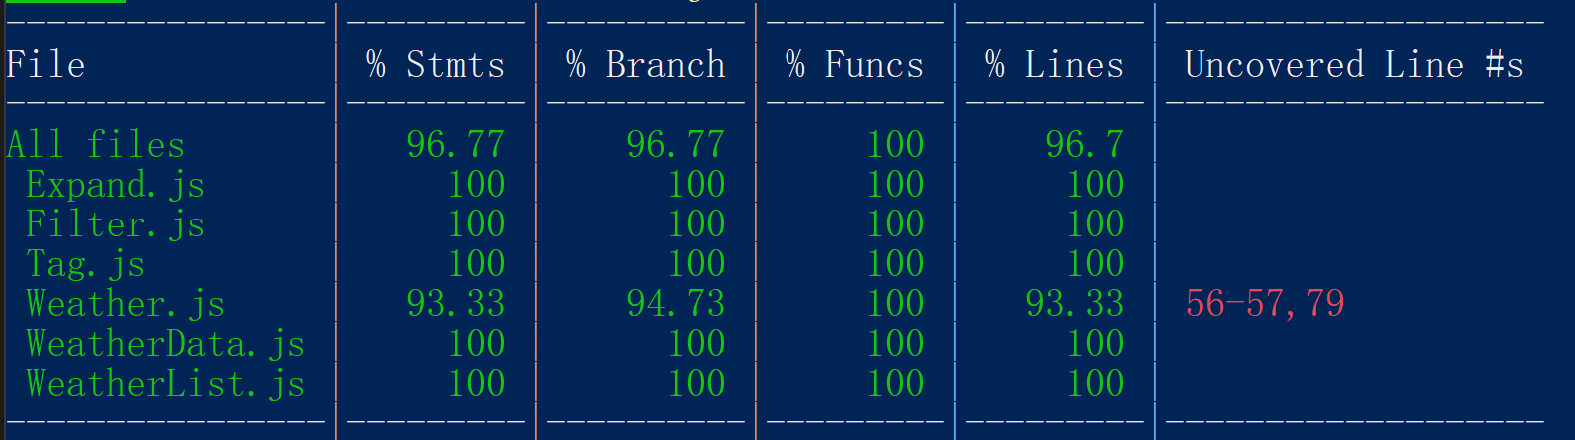
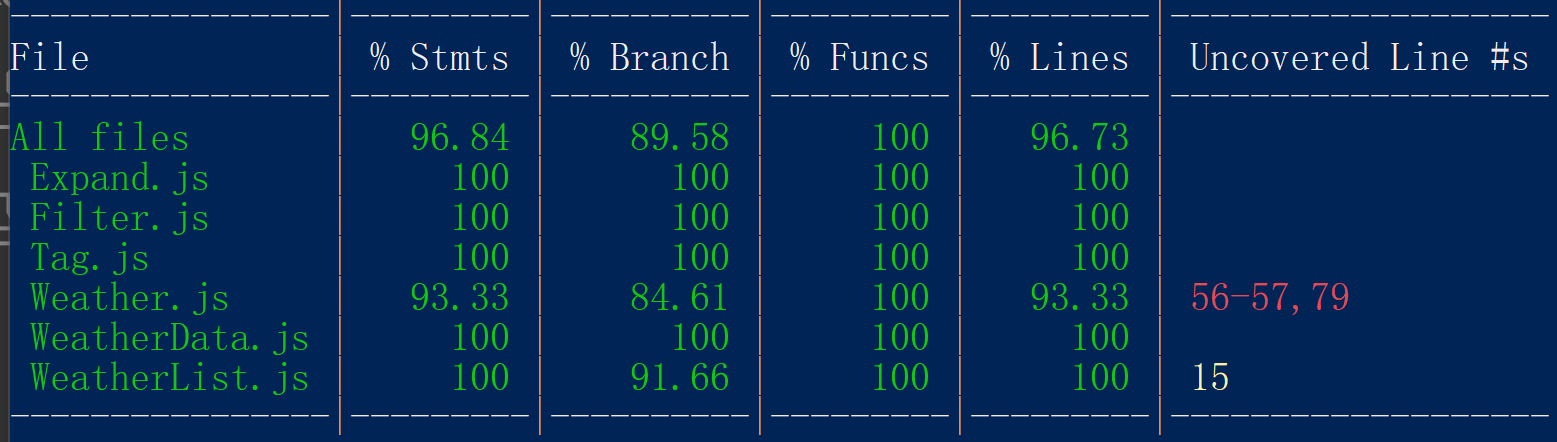
some update
- change WeatherList from class component to function component
- add cases of data is undefined
- update corresponding test cases
- update new branch coverage report

diff --git a/src/components/WeatherList.js b/src/components/WeatherList.js
@@ -1,71 +1,50 @@
-import React from 'react';
+import React, {useState} from 'react';
 import '../css/WeatherList.css';
 import Weather from './Weather';
 import Filter from './Filter';
-import weatherList from "../data/weather.json";
 
-const storage = window.localStorage;
-
-class WeatherList extends React.Component{
-    constructor(props){
-        super(props);
-        this.state = {
-            cityFilter: "",
-            countryFilter: "",
-            tagFilter: "",
-            groupExpand: new Array(this.props.store_length).fill(false)
-        };
+function WeatherList(props) {
+    const {store_length} = props;
+    const [cityFilter, setCityFilter] = useState("");
+    const [countryFilter, setCountryFilter] = useState("");
+    const [tagFilter, setTagFilter] = useState("");
+    const flags = new Array(store_length).fill(false);
+    const [groupExpand, setGroupExpand] = useState(flags);
+    
+    const handleFilter = (event) => {
+        if (event.target) {
+            if (event.target.id === "cityFilter") {
+                setCityFilter(event.target.value.toUpperCase());
+            }
+            if (event.target.id === "countryFilter") {
+                setCountryFilter(event.target.value.toUpperCase());
+            }
+            if (event.target.id === "tagFilter") {
+                setTagFilter(event.target.value.toUpperCase());
+            }
+            // handle tag's button filter
+            if (event.target.type === "submit") {
+                setTagFilter(event.target.innerHTML.toUpperCase());
+            }
+        }
     }
     
-    handleFilter(event) {
-        // handle name's text filter
-        let {cityFilter, countryFilter, tagFilter, groupExpand} = this.state;
-        
-        if (event.target.id === "cityFilter") {
-            cityFilter = event.target.value.toUpperCase();
-        }
-        if (event.target.id === "countryFilter") {
-            countryFilter = event.target.value.toUpperCase();
-        }
-        if (event.target.id === "tagFilter") {
-            tagFilter = event.target.value.toUpperCase();
-        }
-        // handle tag's button filter
-        if (event.target.type === "submit") {
-            tagFilter = event.target.innerHTML.toUpperCase();
-        }
-        this.setState({cityFilter, countryFilter, tagFilter, groupExpand});
-    }
-    
-    handleExpand(exp_id) {
-        let {cityFilter, countryFilter, tagFilter, groupExpand} = this.state;
-        groupExpand[exp_id] = !groupExpand[exp_id] 
-        this.setState({cityFilter, countryFilter, tagFilter, groupExpand});
+    const handleExpand = (exp_id) => {
+        setGroupExpand(groupExpand.map((expand, i) => i === exp_id? !expand: expand));
     }
 
-    render(){
-        // handle whether current student should expand
-        let {cityFilter, countryFilter, tagFilter, groupExpand} = this.state;
+    const cityList = groupExpand.map((expand, i) => {
+        return <Weather key={i} id={i} expand={expand}
+        cityFilter={cityFilter} countryFilter={countryFilter} tagFilter={tagFilter}
+        handleExpand={exp_id => handleExpand(exp_id)}
+        handleFilter={(e) => handleFilter(e)} />;
+    })   
 
-        const cityList = groupExpand.map((expand, i) => {
-            return <Weather key={i} id={i} expand={expand}
-            cityFilter={cityFilter} countryFilter={countryFilter} tagFilter={tagFilter}
-            handleExpand={exp_id => this.handleExpand(exp_id)}
-            handleFilter={(e) => this.handleFilter(e)} />;
-            /*
-            return <Weather key={i} id={i} weatherList={this.props.weatherList} expand={expand}
-            cityFilter={cityFilter} countryFilter={countryFilter} tagFilter={tagFilter}
-            handleExpand={exp_id => this.handleExpand(exp_id)}
-            handleFilter={(e) => this.handleFilter(e)}
-            setWeatherList={this.props.setWeatherList}/>;
-            */
-        })   
-        
-        return (
+    return (
             <table id="context_box">
                 <tbody>
                     <tr>
-                    <Filter handleFilter={(e) => this.handleFilter(e)}/>
+                    <Filter handleFilter={(e) => handleFilter(e)}/>
                     </tr>
                     <tr>
                         <td>
@@ -74,8 +53,7 @@ class WeatherList extends React.Component{
                     </tr>
                 </tbody>
             </table>
-        );
-    }
+    );
 }
 
 export default WeatherList;

diff --git a/src/tests/Expand.test.js b/src/tests/Expand.test.js
@@ -6,13 +6,93 @@ import '@testing-library/jest-dom/extend-expect' // expect function
 import userEvent from '@testing-library/user-event'; 
 
 import Expand from '../components/Expand';
-import weather from "../data/weather.json";
 
 // required prop data of create component
 const user = userEvent.setup();
 
 const id = 3;
-const currCity = weather[id];
+const currCity = {
+    "country": "Algeria",
+    "city": "Algiers",
+    "lat": 36.7753606,
+    "lon": 3.0601882,
+    "tags": ",",
+    "icon": "https://openweathermap.org/img/wn/10d@2x.png",
+    "curr_forecast": {
+        "timestamp": "2023-01-18 09:00:00",
+        "temp": 12.01,
+        "feels_like": 11.12,
+        "temp_min": 9.79,
+        "temp_max": 12.01,
+        "icon": "https://openweathermap.org/img/wn/10d@2x.png"
+    },
+    "detail_forecast": [
+        {
+            "timestamp": "2023-01-18 09:00:00",
+            "temp": 12.01,
+            "feels_like": 11.12,
+            "temp_min": 9.79,
+            "temp_max": 12.01,
+            "icon": "https://openweathermap.org/img/wn/10d@2x.png"
+        },
+        {
+            "timestamp": "2023-01-18 12:00:00",
+            "temp": 11.35,
+            "feels_like": 10.42,
+            "temp_min": 10.47,
+            "temp_max": 11.35,
+            "icon": "https://openweathermap.org/img/wn/10d@2x.png"
+        },
+        {
+            "timestamp": "2023-01-18 15:00:00",
+            "temp": 11.8,
+            "feels_like": 10.52,
+            "temp_min": 11.8,
+            "temp_max": 11.8,
+            "icon": "https://openweathermap.org/img/wn/10d@2x.png"
+        },
+        {
+            "timestamp": "2023-01-18 18:00:00",
+            "temp": 11.07,
+            "feels_like": 9.8,
+            "temp_min": 11.07,
+            "temp_max": 11.07,
+            "icon": "https://openweathermap.org/img/wn/10n@2x.png"
+        },
+        {
+            "timestamp": "2023-01-18 21:00:00",
+            "temp": 11.57,
+            "feels_like": 10.24,
+            "temp_min": 11.57,
+            "temp_max": 11.57,
+            "icon": "https://openweathermap.org/img/wn/10n@2x.png"
+        },
+        {
+            "timestamp": "2023-01-19 00:00:00",
+            "temp": 11.42,
+            "feels_like": 9.95,
+            "temp_min": 11.42,
+            "temp_max": 11.42,
+            "icon": "https://openweathermap.org/img/wn/10n@2x.png"
+        },
+        {
+            "timestamp": "2023-01-19 03:00:00",
+            "temp": 10.93,
+            "feels_like": 9.54,
+            "temp_min": 10.93,
+            "temp_max": 10.93,
+            "icon": "https://openweathermap.org/img/wn/10n@2x.png"
+        },
+        {
+            "timestamp": "2023-01-19 06:00:00",
+            "temp": 10.43,
+            "feels_like": 9.12,
+            "temp_min": 10.43,
+            "temp_max": 10.43,
+            "icon": "https://openweathermap.org/img/wn/10n@2x.png"
+        }
+    ]
+};
 const expandT = true;
 const expandF = false;
 const handleExpand = jest.fn();
@@ -40,7 +120,18 @@ describe('testing Expand component', () => {
         // expecting output
         expect(expandData.toJSON()).toMatchSnapshot();
     });
-    
+
+    test("Matches the snapshot: shows empty city", () => {
+        // create component
+        const expandData = create(
+            <Expand id={id} currCity={{}}
+                    expand={expandF} handleExpand={handleExpand} />
+        );
+
+        // expecting output
+        expect(expandData.toJSON()).toMatchSnapshot();
+    });
+
     test("shows clicked button working", async () => {
         // render component
         render(

diff --git a/src/components/Expand.js b/src/components/Expand.js
@@ -22,7 +22,7 @@ function Expand(props) {
                 </tr>
             </thead>
             <tbody>
-        {detailWeathers.map(
+        {detailWeathers? detailWeathers.map(
       (weatherObj, i) => 
               <tr key={i}>
                 <td>{`${weatherObj.time}`}</td>
@@ -31,14 +31,15 @@ function Expand(props) {
                 <td>{`${weatherObj.feels_like} °C`}</td>
                 <td>{`${weatherObj.temp_min} °C`}</td>
                 <td>{`${weatherObj.temp_max} °C`}</td>
-              </tr>)}
+              </tr>)
+              : {}}
               
             </tbody>
           </table>
           </li>
 
       let currWeatherList = <li></li>;
-      currWeatherList = 
+      currWeatherList = currWeather ?
       <li key={"curr_weather"}>
             <table>
               <thead>
@@ -62,7 +63,8 @@ function Expand(props) {
                 </tr>
               </tbody>
             </table>
-            </li>;
+            </li>
+            : <li></li>;
     return (
         <ul className='detailWeather'>
             <li><button className="expand" onClick={() => handleExpand(id)}>

diff --git a/src/tests/WeatherList.test.js b/src/tests/WeatherList.test.js
@@ -19,7 +19,7 @@ const city_filt_two = "U";
 const city_filter = "{Enter}";
 const country_filt_one = "HAN";
 const country_filt_two = "AN";
-const country_filter = "{enter}";
+const country_filter = "{Enter}";
 const tag_filt_one = "M";
 const tag_filt_two = "%";
 const tag_filter = "{Enter}";
@@ -289,7 +289,23 @@ const city_names = city_datas.map(
 const test_nums = city_datas.map(
     _ => 5);
 
+// patching the respective key events in the test suites for legacy code
+// from https://github.com/testing-library/user-event/issues/946
+const keyCodes = {
+    Enter: 13,
+  }
+  function patchKeyEvent(e) {
+    Object.defineProperty(e, 'keyCode', {
+      get: () => keyCodes[e.code] ?? 0,
+    })
+  }
+
 describe('testing WeatherList component', () => {
+
+    beforeAll(() => {
+        document.addEventListener('keyup', patchKeyEvent, {capture: true})
+      })
+
     test("Matches the snapshot", () => {
         // create component
         const city = create(

diff --git a/src/components/Weather.js b/src/components/Weather.js
@@ -92,11 +92,11 @@ function Weather(props) {
     const [city, setNewCity] = useLocalStorage(id, setTagErrorMsg);
 
     let removeByCity, removeByCountry, removeByTag, disp;
-    removeByCity = city.city.toUpperCase().indexOf(cityFilter) === -1;
-    removeByCountry = city.country.toUpperCase().indexOf(countryFilter) === -1;
-    removeByTag = city.tags.toUpperCase().indexOf(tagFilter) === -1;
+    removeByCity = city.city? city.city.toUpperCase().indexOf(cityFilter) === -1: false;
+    removeByCountry = city.country? city.country.toUpperCase().indexOf(countryFilter) === -1: false;
+    removeByTag = city.tags? city.tags.toUpperCase().indexOf(tagFilter) === -1: false;
 
-    disp = (removeByCity || removeByCountry || removeByTag)? {display:"none"}: {};
+    disp = (removeByCity || removeByCountry || removeByTag || !city.city)? {display:"none"}: {};
 
     return (
         <li className="single_city" style={disp}>

diff --git a/src/tests/Tag.test.js b/src/tests/Tag.test.js
@@ -34,7 +34,7 @@ const keyCodes = {
       get: () => keyCodes[e.code] ?? 0,
     })
   }
-  
+
 describe('testing Tag component', () => {
 
     beforeAll(() => {
@@ -60,6 +60,16 @@ describe('testing Tag component', () => {
         );
 
         // expecting output
+        expect(tagData.toJSON()).toMatchSnapshot();
+    });
+
+    
+    test("Matches the snapshot with undefined tags", () => {
+        // render component
+        const tagData = create(
+            <Tag tags={undefined} tagErrorMsg={tagErrorMsg} handleFilter={handleFilter}
+                 setNewCity={setNewCity2}/>
+        );
         expect(tagData.toJSON()).toMatchSnapshot();
     });
 

diff --git a/src/components/Tag.js b/src/components/Tag.js
@@ -8,8 +8,8 @@ function Tag(props) {
 
 
     // split string tag into a list of valid tags, and remove empty tag
-    var tag_lst = tags.split(tag_spliter).filter(tag => tag !== "")
-                  .map((tag, i) => <button key={i} onClick={e => handleFilter(e)}>{tag}</button>);
+    var tag_lst = tags? tags.split(tag_spliter).filter(tag => tag !== "")
+                  .map((tag, i) => <button key={i} onClick={e => handleFilter(e)}>{tag}</button>): [];
   
     return (
         <ul>
